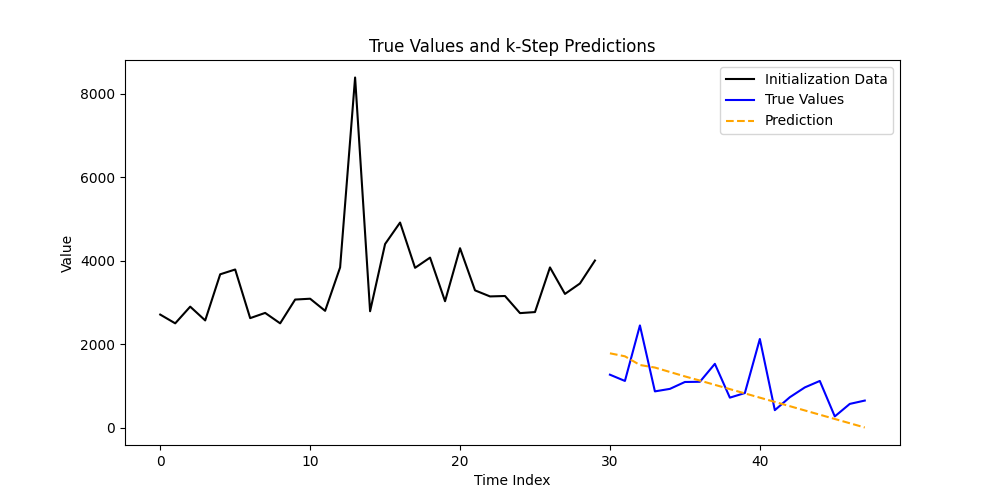
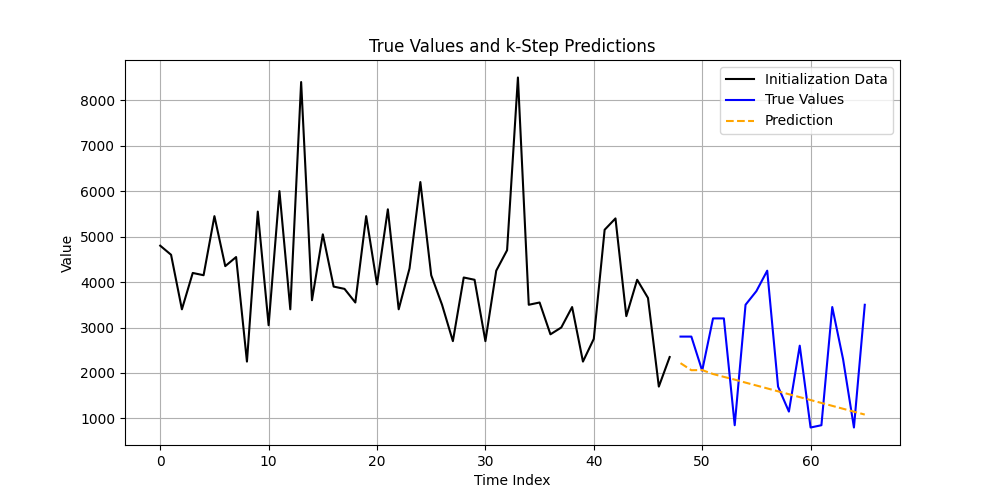
Finished k step prediction, now need to retune

diff --git a/main.py b/main.py
@@ -30,7 +30,7 @@ def split_data(df):
 
     # Split the micro category data into train and test sets
     micro_train_val_df, micro_test_df = train_test_split(
-        micro_df, test_size=0.2, shuffle=False, random_state=169
+        micro_df, test_size=0.2, shuffle=True, random_state=169
     )
 
     return micro_train_val_df, micro_test_df
@@ -156,50 +156,58 @@ def k_step_prediction_and_evaluate(test_data, k, predictor):
     scaler = pickle.load(open("data/train_scaler.pkl", "rb"))
     last_value = pickle.load(open("data/last_value.pkl", "rb"))
 
-    adjusted_predictions = predictor.undo_normalization(predictions, scaler)
-    true_last_k_points = predictor.undo_normalization(true_last_k_points, scaler)
-    initialization_data = predictor.undo_normalization(initialization_data, scaler)
+    l1_loss = np.abs(predictions - true_last_k_points).mean()
+    print(f"L1 Loss for k-step prediction: {l1_loss}")
 
-    # Use the last value before differencing (for training data) as the starting point for reversal
-    adjusted_predictions = predictor.retrend_data(adjusted_predictions, last_value)
-    true_last_k_points = predictor.retrend_data(true_last_k_points, last_value)
-    initialization_data = predictor.retrend_data(initialization_data, last_value)
+    # Undo normalization
+    initialization_data_unnorm = predictor.undo_normalization(initialization_data, scaler)
+    predictions_unnorm = predictor.undo_normalization(predictions, scaler)
+    true_last_k_points_unnorm = predictor.undo_normalization(true_last_k_points, scaler)
 
+
+    # Retrend the initialization data
+    initialization_data_retrended = np.cumsum(initialization_data_unnorm) + last_value
+
+    # Use the last value from the initialization data retrended
+    last_known_value = initialization_data_retrended[-1]
+
+    # Retrend the predictions
+    adjusted_predictions = np.cumsum(predictions_unnorm) + last_known_value
+    print("Adjusted Predictions (after retrending):", adjusted_predictions)
+
+    # Retrend the true last k points
+    last_value_for_true_points = initialization_data_retrended[-1]
+    true_last_k_points_retrended = np.cumsum(true_last_k_points_unnorm) + last_value_for_true_points
+    print("True Last K Points (after retrending):", true_last_k_points_retrended)
+
+    # Calculate SMAPE
     smape_loss = SMAPELoss()
-    smape = smape_loss.forward(true_last_k_points, adjusted_predictions)
+    smape = smape_loss.forward(true_last_k_points_retrended, adjusted_predictions)
 
     print(f"SMAPE for k-step prediction: {smape.item()}%")
 
-    return adjusted_predictions, true_last_k_points, smape.item(), initialization_data
+    return adjusted_predictions, true_last_k_points_retrended, smape.item(), initialization_data_retrended
 
 
-
-
-def plot_k_step_predictions(series_N1875_values, true_last_k_points, adjusted_predictions):
+def plot_k_step_predictions(init_data_retrended, true_last_k_points_unnorm, adjusted_predictions):
     plt.figure(figsize=(10, 5))
 
     # Plot entire test data without the last 18 points
-    plt.plot(series_N1875_values[:-18], color="black", label="Initialization Data")
+    plt.plot(np.arange(len(init_data_retrended)), init_data_retrended, color="black", label="Initialization Data")
 
     # Plot the true last 18 points
-    time_index = np.arange(len(series_N1875_values) - 18, len(series_N1875_values))
-    plt.plot(time_index, true_last_k_points, color="blue", label="True Values")
+    time_index_true = np.arange(len(init_data_retrended), len(init_data_retrended) + len(true_last_k_points_unnorm))
+    plt.plot(time_index_true, true_last_k_points_unnorm, color="blue", label="True Values")
 
-    # Plot the predictions
-    plt.plot(
-        time_index,
-        adjusted_predictions,
-        color="orange",
-        label="Prediction",
-        linestyle="--",
-    )
+    time_index_pred = np.arange(len(init_data_retrended), len(init_data_retrended) + len(adjusted_predictions))
+    plt.plot(time_index_pred, adjusted_predictions, color="orange", label="Prediction", linestyle="--")
 
     plt.xlabel("Time Index")
     plt.ylabel("Value")
     plt.title("True Values and k-Step Predictions")
     plt.legend()
+    plt.grid(True)
     plt.savefig("plots/k_step_predictions.png")
-
 
 
 if __name__ == "__main__":
@@ -208,7 +216,7 @@ if __name__ == "__main__":
 
     train_val_data, test_data, test_data_raw = load_and_preprocess_data()
     tuning_mode = False  # runs the tuning mode with the optuna study
-    train_model = False  # trains the final model with hyperparams
+    train_model = True  # trains the final model with hyperparams
 
     if tuning_mode:
         study = run_tuning_mode(train_val_data, device)

diff --git a/src/preprocess.py b/src/preprocess.py
@@ -30,6 +30,7 @@ def preprocess(dataset, test=False):
     if not test:
         # Training phase
         data = combined_data["Value"]
+        plot_preprocessed(data, "orig_train")
 
         # Perform differencing
         differenced_data = data.diff().dropna()
@@ -67,6 +68,7 @@ def preprocess(dataset, test=False):
 
         last_series = df_long["Series"].unique()[-1]
         df_filtered = df_long[df_long["Series"] == last_series]
+        plot_preprocessed(df_filtered["Value"], "orig_test")
 
         data = df_filtered["Value"]
 
